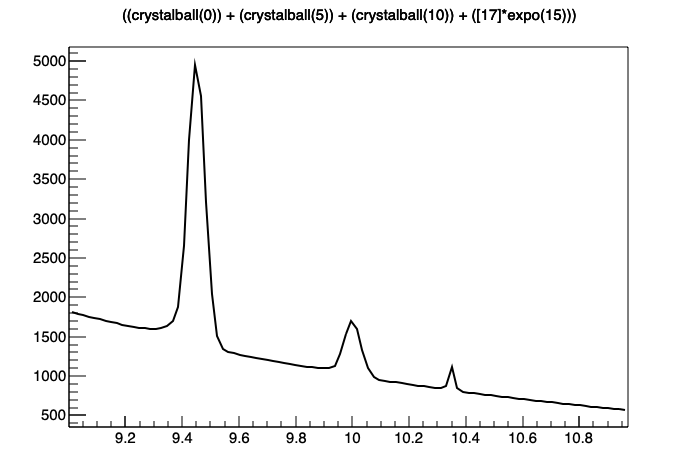
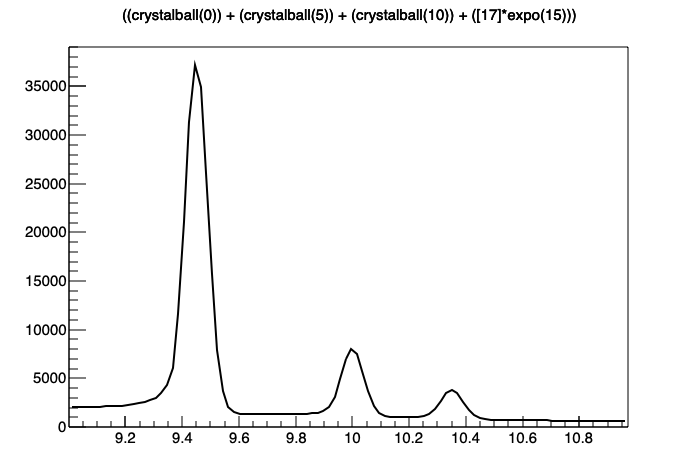
Residual Ploting

diff --git a/pyroot_test.py b/pyroot_test.py
@@ -167,7 +167,20 @@ legend.SetLineWidth(0)
 legend.Draw("same")
 
 
+
+
+res_gauss = ROOT.TRatioPlot(hist_ups)
+res_gauss.Draw()
+
+res_gauss.GetLowerRefYaxis().SetTitle("Ratio");
+res_gauss.GetUpperRefYaxis().SetTitle("Number of Counts")
+res_gauss.SetConfidenceIntervalColors(ROOT.kBlue, ROOT.kWhite)
+res_gauss.GetLowerRefGraph().SetMinimum(-15)
+res_gauss.GetLowerRefGraph().SetMaximum(15)
+
+
 canvas.Print ('xmass_hist_gauss.png')
+
 
 
 # Create a double gaussian pdf to fit the Upsilon data
@@ -255,6 +268,17 @@ legend.AddEntry(d_gauss_fit, "Double Gaussian Fit")
 legend.SetLineWidth(0)
 legend.Draw("same")
 
+
+res_d_gauss = ROOT.TRatioPlot(hist_ups)
+res_d_gauss.Draw()
+
+res_d_gauss.GetLowerRefYaxis().SetTitle("Ratio");
+res_d_gauss.GetUpperRefYaxis().SetTitle("Number of Counts")
+res_d_gauss.SetConfidenceIntervalColors(ROOT.kBlue, ROOT.kWhite)
+res_d_gauss.GetLowerRefGraph().SetMinimum(-7)
+res_d_gauss.GetLowerRefGraph().SetMaximum(7)
+res_d_gauss.SetSeparationMargin(0.0)
+
 canvas.Print ('xmass_hist_d_gauss.png')
 
 # Create a Crystal Ball pdf to fit the Upsilon data
@@ -276,11 +300,11 @@ cb_fit = ROOT.TF1("Crystal Ball PDF", pdf_cb, bins[0], bins[-1])
 #     n = n of Crystal Ball
 
 #Crystal Ball 1
-cb_fit.SetParameter(0,3600)
+cb_fit.SetParameter(0,36000)
 cb_fit.SetParName(0,"A 1")
 cb_fit.SetParameter(1,9.45)
 cb_fit.SetParName(1,"mu 1")
-cb_fit.SetParameter(2,0.03)
+cb_fit.SetParameter(2,0.04)
 cb_fit.SetParName(2,"sig 1")
 
 cb_fit.SetParameter(3,alpha_cb) #alpha_cb
@@ -291,11 +315,11 @@ cb_fit.SetParName(4,"n 1")
 cb_fit.FixParameter(4, n_cb)
 
 #Crystal Ball 2
-cb_fit.SetParameter(5,700)
+cb_fit.SetParameter(5,7000)
 cb_fit.SetParName(5,"A 2")
 cb_fit.SetParameter(6,10.0)
 cb_fit.SetParName(6,"mu 2")
-cb_fit.SetParameter(7,0.03)
+cb_fit.SetParameter(7,0.04)
 cb_fit.SetParName(7,"sig 2")
 
 cb_fit.SetParameter(8,alpha_cb)
@@ -306,11 +330,11 @@ cb_fit.SetParName(9,"n 2")
 cb_fit.FixParameter(9, n_cb)
 
 #Crystal Ball 3
-cb_fit.SetParameter(10,300)
+cb_fit.SetParameter(10,3000)
 cb_fit.SetParName(10,"A 3")
 cb_fit.SetParameter(11,10.35)
 cb_fit.SetParName(11,"mu 3")
-cb_fit.SetParameter(12,0.01)
+cb_fit.SetParameter(12,0.04)
 cb_fit.SetParName(12,"sig 3")
 
 cb_fit.SetParameter(13,alpha_cb)
@@ -339,7 +363,7 @@ hist_ups.SetLineColor( ROOT.kBlue )
 hist_ups.SetLineWidth(2)
 hist_ups.GetYaxis().SetTitle(" Number of events ")
 hist_ups.GetXaxis().SetTitle("Muon Pair Mass [GeV/c^{2}]")
-hist_ups.Draw("pe")
+hist_ups.Draw("h")
 
 hist_ups.Fit(cb_fit, 'L')
 
@@ -348,6 +372,23 @@ legend.AddEntry(hist_ups, "Data")
 legend.AddEntry(cb_fit, "Crystal Ball Fit")
 legend.SetLineWidth(0)
 legend.Draw("same")
+
+res_cb = ROOT.TRatioPlot(hist_ups)
+res_cb.Draw("pe")
+
+res_cb.GetLowerRefYaxis().SetTitle("Ratio");
+res_cb.GetUpperRefYaxis().SetTitle("Number of Counts")
+res_cb.SetConfidenceIntervalColors(ROOT.kBlue, ROOT.kWhite)
+res_cb.GetLowerRefGraph().SetMinimum(-7)
+res_cb.GetLowerRefGraph().SetMaximum(7)
+res_cb.SetSeparationMargin(0.0)
+
+latex = ROOT.TLatex ()
+latex.SetNDC ()
+latex.SetTextSize (0.06)
+latex.DrawText (0.7 ,0.83 , " HASCO 2018 ")
+latex.SetTextSize (0.04)
+latex.DrawText (0.7 ,0.77 , "Di - muon events ")
 
 canvas.Print ('xmass_hist_cb.png')
 
@@ -364,9 +405,9 @@ cb_ndof = cb_fit.GetNDF()
 print(d_gauss_ndof, cb_ndof)
 print(f"{chi2_gauss/gauss_ndof = }\n{chi2_d_gauss/d_gauss_ndof = }\n{chi2_cb/cb_ndof = }")
 
+
+
 # Finding the areas under the first peaks for the double gaussian and crystal ball for the error estimation
-
-
 
 
 test_d_gauss = ROOT.TF1("test func", d_g_1, 7.5, 10.0)
@@ -408,5 +449,6 @@ hist_back.Fit(lin_func, "L")
 print(f"{exp_func.Integral(bins[0], bins[-1]) = }")
 print(f"{lin_func.Integral(bins[0], bins[-1]) = }")
 
-print(f"diference {1 - lin_func.Integral(bins[0], bins[-1])/exp_func.Integral(bins[0], bins[-1]})")
+
+
 
